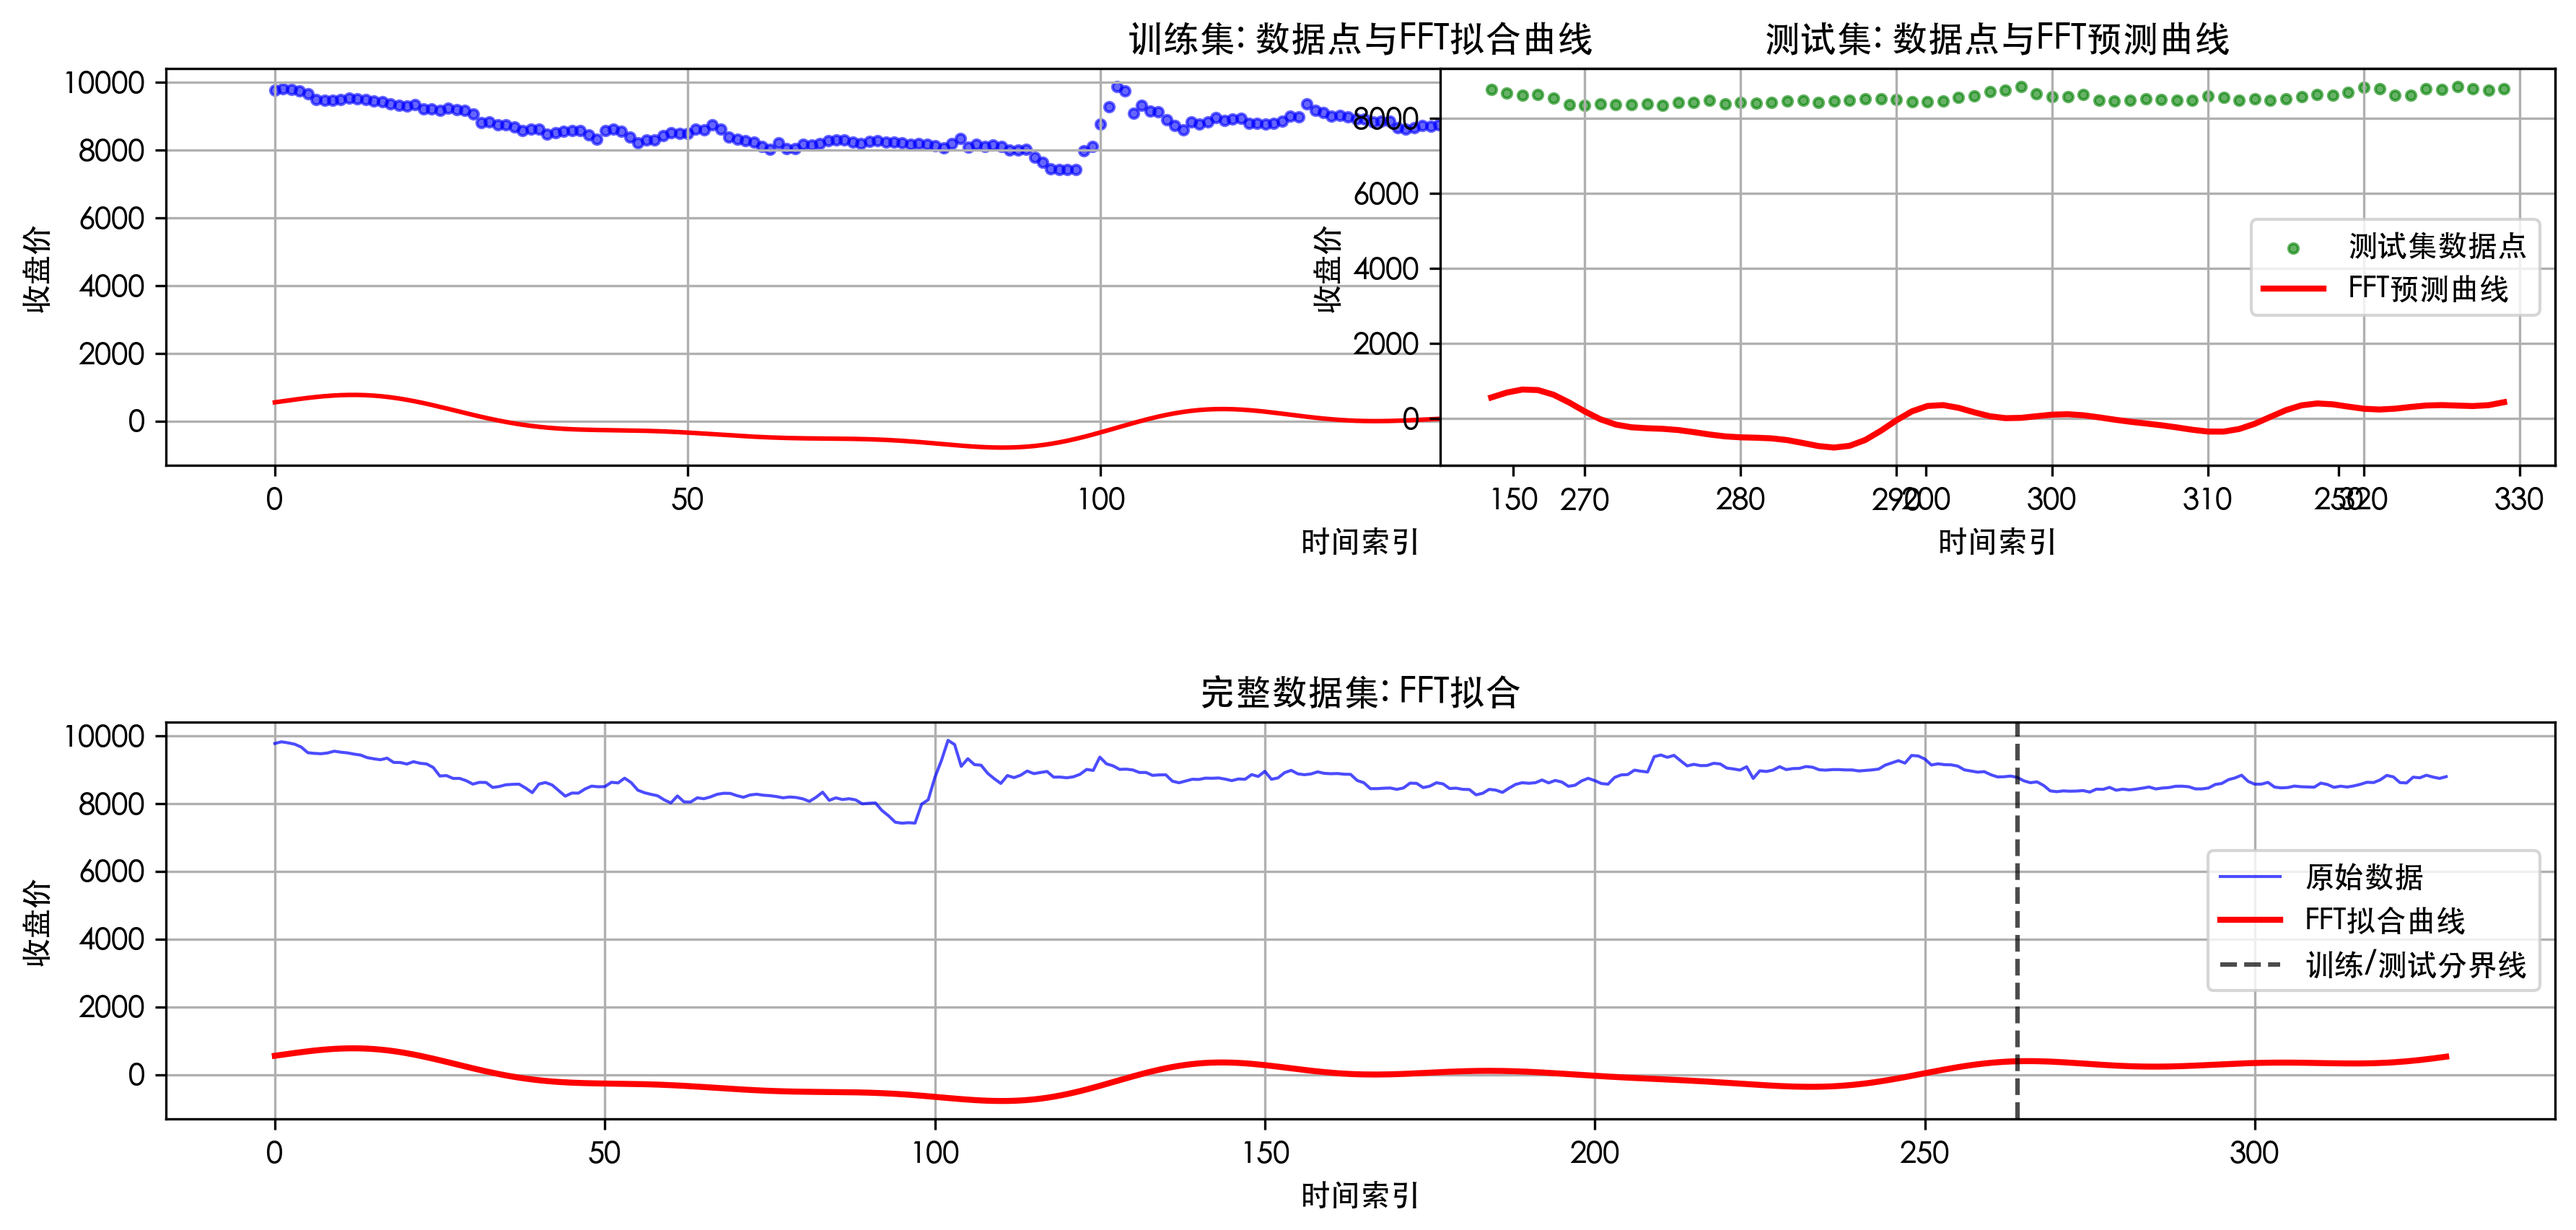
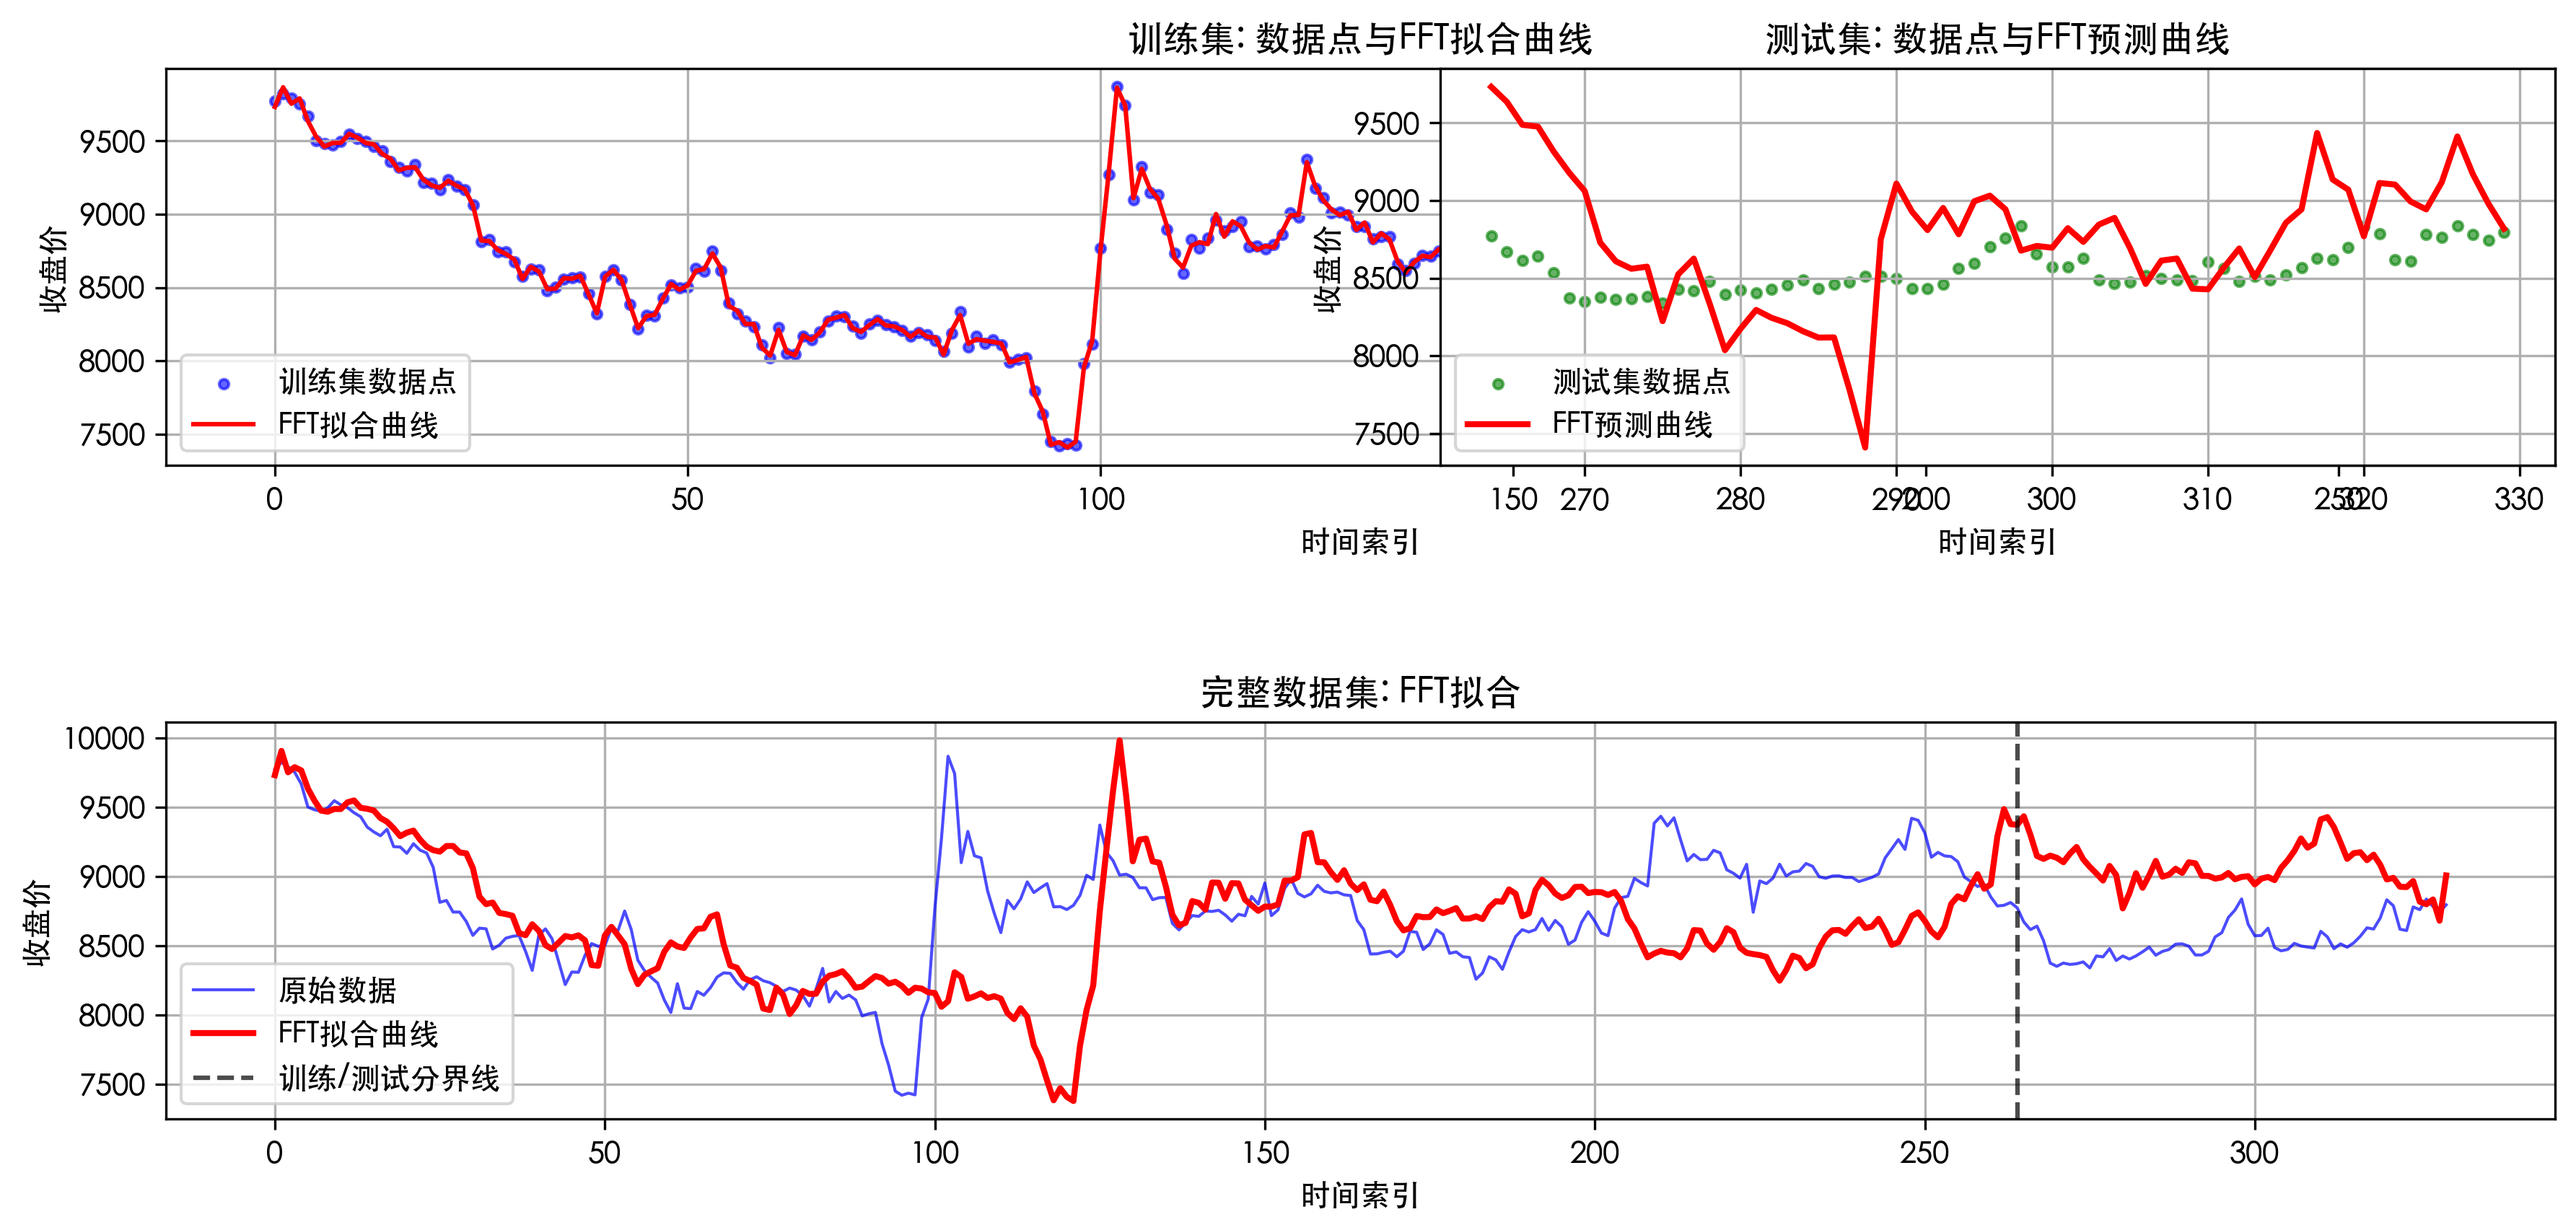
FFT第一个模型成功完成拟合

Changed region(s): [[0.0311, 0.5906, 0.995, 0.9015], [0.0, 0.0622, 0.995, 0.373]]

diff --git a/analysis/FFT.py b/analysis/FFT.py
@@ -62,9 +62,9 @@ X_test = time_indices[train_size:]
 y_train = closing_prices[:train_size]
 y_test = closing_prices[train_size:]
 
-def fft_model(t, *coefficients):
+def fft_model(t, dc_offset,*coefficients):
     n_components = len(coefficients) // 2
-    result = 0
+    result = dc_offset
     
     for i in range(n_components):
         a_n = coefficients[2*i]      # 余弦系数
@@ -74,7 +74,7 @@ def fft_model(t, *coefficients):
         result += a_n * np.cos(2 * np.pi * freq * t) + b_n * np.sin(2 * np.pi * freq * t)
     return result
 
-def improved_fft_model(t, *coefficients):
+def fft_model_unimport(t, *coefficients):
     for i in range(n_components):
         a_n = coefficients[2*i]      # 余弦系数
         b_n = coefficients[2*i + 1]  # 正弦系数
@@ -96,8 +96,43 @@ def FFT_period_analysis(frequencies, magnitude):
     return dominant_period
 
 # 3. 滑动窗口技术进行局部FFT分析
+def sliding_window_fft(data, window_size=30):
+    n = len(data)
+    reconstructed = np.zeros(n)
 
-# 4. 带趋势项的FFT模型
+    for i in range(n - window_size + 1):
+        window_data = data[i:i+window_size]
+        # 对窗口数据进行FFT分析
+        fft_window = np.fft.fft(window_data - np.mean(window_data))
+        # 重构窗口数据
+        reconstructed_window = np.fft.ifft(fft_window).real + np.mean(window_data)
+
+        if i == 0:
+            reconstructed[i:i+window_size//2] += reconstructed_window[:window_size//2]
+        elif i == n - window_size:
+            reconstructed[i+window_size//2:i+window_size] += reconstructed_window[window_size//2:]
+        else:
+            reconstructed[i+window_size//2] += reconstructed_window[window_size//2]
+
+        return reconstructed
+
+# 4. 带趋势项的FFT模型 
+def fft_with_trend_model(t, trend_slope, trend_intercept, *fft_coefficients):
+    trend = trend_slope * t + trend_intercept
+
+    # 分析FFT的周期成分
+    n_components = len(fft_coefficients) // 2
+    periodic_component = 0
+
+    for i in range(n_components):
+        a_n = fft_coefficients[2*i]      # 余弦系数
+        b_n = fft_coefficients[2*i + 1]  # 正弦系数
+        freq = (i + 1) / len(t)          # 基础频率的倍数
+        
+        periodic_component += a_n * np.cos(2 * np.pi * freq * t) + b_n * np.sin(2 * np.pi * freq * t)
+    return trend + periodic_component
+
+
 
 # ===========补充的拟合和预测代码===========
 train_fft = np.fft.fft(y_train-np.mean(y_train))
@@ -105,7 +140,7 @@ train_frequencies = np.fft.fftfreq(len(y_train))
 train_magnitude = np.abs(train_fft)
 
 # 选择主要频率成分
-n_components = 5
+n_components = 80
 positive_indices = np.where(train_frequencies > 0)[0]
 significant_indices = positive_indices[np.argsort(train_magnitude[positive_indices])[-n_components:]]
 
